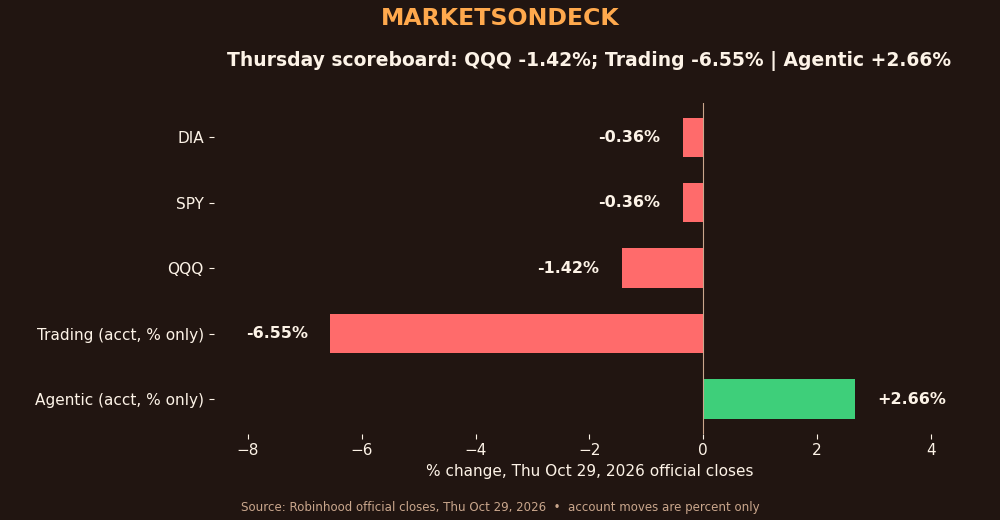
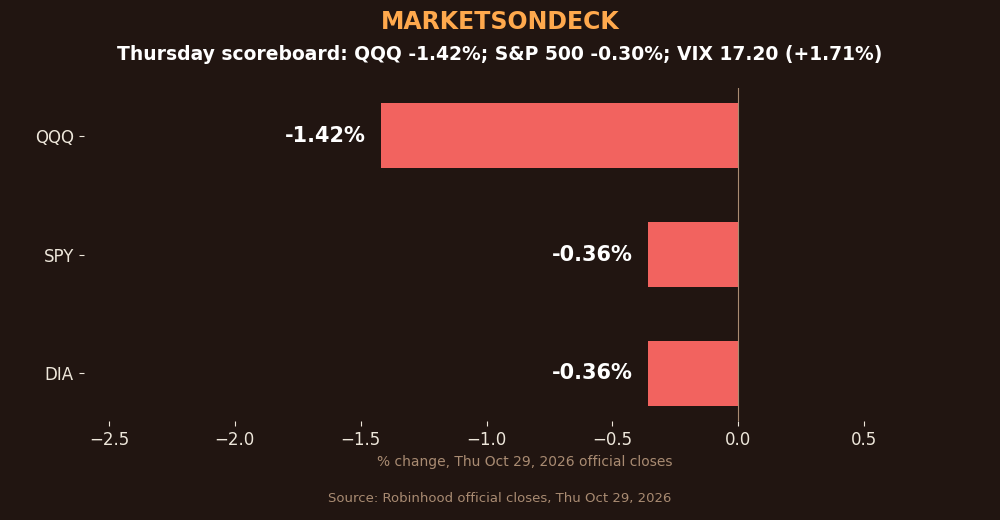
Oct 29 tape audit fixes: market-only hero chart, split recap/Truth paragraphs, dedupe Watch label + Reuters link

diff --git a/site/market-tape/index.html b/site/market-tape/index.html
@@ -128,18 +128,24 @@
 <div class="card daily-entry daily-entry-latest" id="tape-2026-10-29">
 <div class="card-eyebrow" style="display:flex; align-items:center; gap:10px; flex-wrap:wrap; margin-bottom:8px;"><span>October 29, 2026</span><span class="badge badge-accent">After Market Tape</span></div>
 <h3 style="margin-bottom:12px; margin-top:4px;">After Market Tape &mdash; Alphabet Lost 12.66% in a Single Session and ServiceNow Lost 26.96% &mdash; and a 3.4% GDP Beat Kept the December Hike Trade Alive</h3>
-<img class="entry-hero" src="/assets/images/tape-2026-10-29-hero.png" alt="MarketsOnDeck After-Market Tape, October 29, 2026 &mdash; Thursday scoreboard: QQQ -1.42%; Trading -6.55%, Agentic +2.66%" style="width:100%; height:auto; border-radius:8px; margin:12px 0;">
+<img class="entry-hero" src="/assets/images/tape-2026-10-29-hero.png" alt="MarketsOnDeck After-Market Tape, October 29, 2026 &mdash; Thursday scoreboard: QQQ -1.42%; S&P 500 -0.30%; VIX 17.20 (+1.71%)" style="width:100%; height:auto; border-radius:8px; margin:12px 0;">
 <p><strong>Alphabet fell 12.66% on Thursday as Wednesday night's $9.1 billion cash burn became a full-session rout, ServiceNow plunged 26.96% on a softer contract outlook and Caterpillar's 'moderate' guide dragged the Dow &mdash; on a day GDP beat at 3.4%, core PCE ticked up to 3.1% and December hike odds held near 85%.</strong></p>
 <h4 class="section-head" style="margin:20px 0 8px;">Recap</h4>
-<p>Thursday was the earnings bill coming due. At the official closes (Robinhood), <a href="https://finance.yahoo.com/quote/SPY">SPY</a> fell 0.36% to $769.52, <a href="https://finance.yahoo.com/quote/QQQ">QQQ</a> fell 1.42% to $715.28 and <a href="https://finance.yahoo.com/quote/DIA">DIA</a> fell 0.36% to $522.77. The S&amp;P 500 index printed 7,720.39 (-0.30% vs Wednesday's 7,743.98) and the Nasdaq-100 printed 29,402.51 (-1.38% vs 29,813.16), with the VIX up 1.71% at 17.20 (Robinhood index quotes, ~4:32&ndash;4:35 PM ET). Alphabet was the day's anchor: the stock closed at $283.75, down 12.66%, after Wednesday night's report &mdash; a revenue and earnings miss with free cash flow negative for a second straight quarter at -$9.1 billion despite Google Cloud revenue more than doubling (Barron's; Reuters) &mdash; turned an 8.5% after-hours drop into a full-session rout. Microsoft, which jumped after hours on Azure growth of 48%, gave the move back and closed nearly flat at $530.43 (-0.11%). The morning data stack pointed the other way from the stock tape: third-quarter GDP grew at a 3.4% annualized rate, beating consensus (BEA advance estimate via Reuters), while September PCE inflation rose 0.5% on the month to 3.6% year over year and core PCE rose 0.3% on the month to 3.1% year over year (Reuters). Financial markets were pricing a roughly 84.6% chance of a December rate hike (CME FedWatch via Reuters), and the 10-year Treasury yield eased to around 4.95% (Investopedia). After the bell, Amazon missed on the headline lines: GAAP EPS of $1.89 vs the $1.97 estimate in this morning's Robinhood earnings calendar (Seeking Alpha: misses by $0.07), revenue of $201.9 billion (Seeking Alpha: misses by $360 million), while operating income of $28.08 billion beat the $26.06 billion estimate and AWS sales of $45.98 billion grew 39% excluding currency effects (MarketFlux). Amazon's extended-hours mark was $234.39 at ~4:33 PM ET, down 4.03% from Thursday's $244.23 close (Robinhood). Bitcoin's Robinhood evening mark was $79,803.14 (+0.07% vs its open) and Ether's was $2,286.63 (-0.84% vs its open).</p>
+<p>Thursday was the earnings bill coming due.</p>
+<p>At the official closes (Robinhood), <a href="https://finance.yahoo.com/quote/SPY">SPY</a> fell 0.36% to $769.52, <a href="https://finance.yahoo.com/quote/QQQ">QQQ</a> fell 1.42% to $715.28 and <a href="https://finance.yahoo.com/quote/DIA">DIA</a> fell 0.36% to $522.77. The S&amp;P 500 index printed 7,720.39 (-0.30% vs Wednesday's 7,743.98) and the Nasdaq-100 printed 29,402.51 (-1.38% vs 29,813.16), with the VIX up 1.71% at 17.20 (Robinhood index quotes, ~4:32&ndash;4:35 PM ET). Alphabet was the day's anchor: the stock closed at $283.75, down 12.66%, after Wednesday night's report &mdash; a revenue and earnings miss with free cash flow negative for a second straight quarter at -$9.1 billion despite Google Cloud revenue more than doubling (Barron's; Reuters) &mdash; turned an 8.5% after-hours drop into a full-session rout. Microsoft, which jumped after hours on Azure growth of 48%, gave the move back and closed nearly flat at $530.43 (-0.11%).</p>
+<p>The morning data stack pointed the other way from the stock tape: third-quarter GDP grew at a 3.4% annualized rate, beating consensus (BEA advance estimate via Reuters), while September PCE inflation rose 0.5% on the month to 3.6% year over year and core PCE rose 0.3% on the month to 3.1% year over year (Reuters). Financial markets were pricing a roughly 84.6% chance of a December rate hike (CME FedWatch via Reuters), and the 10-year Treasury yield eased to around 4.95% (Investopedia).</p>
+<p>After the bell, Amazon missed on the headline lines: GAAP EPS of $1.89 vs the $1.97 estimate in this morning's Robinhood earnings calendar (Seeking Alpha: misses by $0.07), revenue of $201.9 billion (Seeking Alpha: misses by $360 million), while operating income of $28.08 billion beat the $26.06 billion estimate and AWS sales of $45.98 billion grew 39% excluding currency effects (MarketFlux). Amazon's extended-hours mark was $234.39 at ~4:33 PM ET, down 4.03% from Thursday's $244.23 close (Robinhood). Bitcoin's Robinhood evening mark was $79,803.14 (+0.07% vs its open) and Ether's was $2,286.63 (-0.84% vs its open).</p>
 <h4 class="section-head" style="margin:20px 0 8px;">Truth API recap</h4>
-<p>The day's other story stayed on the tape all session. Reuters reported overnight that Truth Social has signed up Bloomberg, Susquehanna International Group and Jump Trading for paid faster access to President Trump's posts &mdash; a service, called Truth API, with a list price of up to $100,000 a month that Trump Media officials describe as delivering about a 50-millisecond timing advantage (Reuters exclusive, <a href="https://www.reuters.com/business/finance/bloomberg-two-trading-firms-agree-pay-trumps-truth-social-faster-access-2026-10-29/">Reuters exclusive</a>). Susquehanna and Jump are high-frequency trading firms whose software ingests headlines and executes trades in thousandths of a second; Reuters says the service has the potential to give Wall Street traders an edge not available to everyday investors on posts that can move markets, and that the deals likely mark the first time a business tied to a sitting president has sold access to their statements. Trump Media told investors in August that it had signed more than 10 customer agreements at $60,000 to $100,000 a month, a claim Reuters could not confirm. Senators Elizabeth Warren and Adam Schiff asked the SEC in July to investigate whether the service violates securities laws; the SEC declined to comment to Reuters. Intercept Media and the Freedom of the Press Foundation sued in August, seeking to block the White House from posting official government announcements exclusively on Truth Social while the paid feed exists; the suit is ongoing. Trump Media's response, in its own terms: the company calls Truth API an industry-standard API product with significant demand across industries, says the reporting is misleading, and a spokesperson said congressional Democrats mischaracterize the service, citing the distinction between public and nonpublic information. Bloomberg, Susquehanna and Jump declined to comment to Reuters. No new official reaction, statement, lawsuit development or follow-on reporting on the story was verified during Thursday's session &mdash; the day's coverage was follow-on summaries of the Reuters exclusive. The market color: Trump Media (DJT) closed Thursday at $5.78, down 3.18% in its first session after the story broke (Robinhood official close). MarketsOnDeck's full treatment of the story is this morning's <a href="https://marketsondeck.net/brief/#brief-2026-10-29">brief</a> and <a href="https://medium.com/@marketsondeck/s-p-500-0-28-62ca53208139">Medium piece</a>.</p>
+<p>The day's other story stayed on the tape all session. Reuters reported overnight that Truth Social has signed up Bloomberg, Susquehanna International Group and Jump Trading for paid faster access to President Trump's posts &mdash; a service, called Truth API, with a list price of up to $100,000 a month that Trump Media officials describe as delivering about a 50-millisecond timing advantage (<a href="https://www.reuters.com/business/finance/bloomberg-two-trading-firms-agree-pay-trumps-truth-social-faster-access-2026-10-29/">Reuters exclusive</a>). Susquehanna and Jump are high-frequency trading firms whose software ingests headlines and executes trades in thousandths of a second; Reuters says the service has the potential to give Wall Street traders an edge not available to everyday investors on posts that can move markets, and that the deals likely mark the first time a business tied to a sitting president has sold access to their statements. Trump Media told investors in August that it had signed more than 10 customer agreements at $60,000 to $100,000 a month, a claim Reuters could not confirm.</p>
+<p>Senators Elizabeth Warren and Adam Schiff asked the SEC in July to investigate whether the service violates securities laws; the SEC declined to comment to Reuters. Intercept Media and the Freedom of the Press Foundation sued in August, seeking to block the White House from posting official government announcements exclusively on Truth Social while the paid feed exists; the suit is ongoing. Trump Media's response, in its own terms: the company calls Truth API an industry-standard API product with significant demand across industries, says the reporting is misleading, and a spokesperson said congressional Democrats mischaracterize the service, citing the distinction between public and nonpublic information. Bloomberg, Susquehanna and Jump declined to comment to Reuters.</p>
+<p>No new official reaction, statement, lawsuit development or follow-on reporting on the story was verified during Thursday's session &mdash; the day's coverage was follow-on summaries of the Reuters exclusive.</p>
+<p>The market color: Trump Media (DJT) closed Thursday at $5.78, down 3.18% in its first session after the story broke (Robinhood official close). MarketsOnDeck's full treatment of the story is this morning's <a href="https://marketsondeck.net/brief/#brief-2026-10-29">brief</a> and <a href="https://medium.com/@marketsondeck/s-p-500-0-28-62ca53208139">Medium piece</a>.</p>
 <img class="entry-hero" src="/assets/images/tape-2026-10-29-levels.png" alt="Mag 7 on Thursday &mdash; Alphabet -12.66%; Meta and Apple rose" style="width:100%; height:auto; border-radius:8px; margin:12px 0;">
 <p style="font-size:13px; opacity:.72; margin-top:-6px;">Mag 7 on Thursday, split on the earnings bill. Source: Robinhood official closes, October 29, 2026.</p>
 <p>The Mag 7 closed split on Thursday (Robinhood official closes): Meta rose 1.97% to $624.55 and Apple rose 1.49% to $348.94, while Alphabet fell 12.66% to $283.75, Amazon fell 4.07% to $244.23 ahead of its after-close report, Nvidia fell 0.77% to $213.72, Tesla fell 0.23% to $403.29 and Microsoft was nearly flat at $530.43 (-0.11%). Elsewhere, earnings movers ran in both directions: ServiceNow plunged 26.96% to $109.65 after guiding fourth-quarter contracted-revenue (cRPO) growth to 18.5% in constant currency, down from 21% in the third quarter, with adjusted EPS of $1.00 vs $1.02 expected (Investing.com via AIStockWire); Caterpillar fell 9.27% to $647.25 after guiding to only 'moderate' fourth-quarter sales growth despite a $7.20 EPS beat vs roughly $7.05 expected (Tickeron); Eli Lilly jumped 6.57% to $1,373.00 on its morning beat and raised outlook, Merck rose 3.84% to $146.34, KLA rose 5.78% to $167.94, Gilead rose 4.04% to $165.63 and Boeing rose 3.34% to $172.72, while the AI-memory complex gave back Wednesday's gains &mdash; Nebius -5.68%, SanDisk -5.30%, CoreWeave -5.02% and Micron -4.98% (Robinhood closes).</p>
 <img class="entry-hero" src="/assets/images/tape-2026-10-29-movers.png" alt="Thursday's standouts &mdash; ServiceNow -26.96% and Caterpillar -9.27% vs Lilly +6.57%" style="width:100%; height:auto; border-radius:8px; margin:12px 0;">
 <p style="font-size:13px; opacity:.72; margin-top:-6px;">Thursday's standouts: ServiceNow and Caterpillar sank on guidance while Lilly jumped on its beat and raised outlook. Source: Robinhood official closes, October 29, 2026.</p>
-<p style="margin-top:16px;"><strong>Watch tomorrow:</strong> Watch tomorrow: whether Amazon's after-hours drop holds at Friday's open, the after-close reactions from Intel, SanDisk and Coinbase, whether December hike pricing near 85% survives into the weekend, any SEC or court development on the Truth API story, and Friday's earnings slate.</p>
+<p style="margin-top:16px;"><strong>Watch tomorrow:</strong> whether Amazon's after-hours drop holds at Friday's open, the after-close reactions from Intel, SanDisk and Coinbase, whether December hike pricing near 85% survives into the weekend, any SEC or court development on the Truth API story, and Friday's earnings slate.</p>
 <h4 class="section-head" style="margin:20px 0 8px;">The OnDeck Book</h4>
 <p>Trading fell 6.55% on Thursday and Agentic rose 2.66% (percent only) vs SPY -0.36%, QQQ -1.42% and DIA -0.36%. Trading day P&amp;L was -$3,304.00 on a core-equity basis (Robinhood: core equity $47,134.43 vs adjusted previous close $50,438.43) &mdash; $3,126.00 of it was the options book marking down as the underlying names fell, and $178.00 was the equity positions. Positions (Thursday official closes, Robinhood): SPCX 150 shares, avg $132.13, close $143.82 (-0.97% on the day), +8.85% vs avg cost, unrealized +$1,753.47. SOFI 200 shares, avg $17.10, close $17.605 (+2.71%), +2.97% vs avg, unrealized +$101.50. QUBT 700 shares, avg $8.21, close $6.825 (-1.23%), -16.87% vs avg, unrealized -$969.50. Options (adjusted marks at Thursday's close, Robinhood; total market value $6,895, down from $10,021 at Wednesday's close): SPCX $148 calls expiring Wed Nov 4, 7 long, clearing cost $2,698 total, mark $1.98, market value $1,386 &mdash; expiring within 7 days; NVDA $215 calls expiring Wed Nov 4, 2 long, clearing cost $880 total, mark $2.90, market value $580 &mdash; expiring within 7 days; NVDA $217.50 calls expiring Wed Nov 4, 4 long, clearing cost $1,814 total, mark $1.89, market value $756 &mdash; expiring within 7 days; SPCX $148 calls expiring Fri Nov 6, 11 long, clearing cost $4,903 total, mark $2.66, market value $2,926; SPCX $152.50 calls expiring Fri Nov 6, 7 long, clearing cost $1,940 total, mark $1.45, market value $1,015; NVDA $222.50 calls expiring Fri Nov 6, 2 long, clearing cost $720 total, mark $1.16, market value $232. No orders today &mdash; no equity, option or crypto orders in Trading or Agentic on Thursday (Robinhood order history). Futures: none &mdash; the position was fully closed on Oct 22 and nothing is held this evening. Crypto: ETH 3.6 coins, clearing cost basis $8,608.00, mark $2,286.63 (Robinhood crypto quote, ~4:35 PM ET), indicative value $8,231.88; BTC mark $79,803.14 (quote only; no BTC position); USDG 102.88 units including Crypto Earn (last checked October 15); dust: CC 1.0, DOGE 1.0, USDC 0.00993.</p>
 <p style="margin-top:16px;">Sources: Robinhood (official closes, broker records, index and crypto quotes, portfolio pull), Reuters (Truth API exclusive, GDP and PCE), BEA (GDP advance estimate), Barron's (Alphabet), CME FedWatch via Reuters (December hike pricing), Investopedia (10-year Treasury), Seeking Alpha and MarketFlux (Amazon after-close), Investing.com via AIStockWire (ServiceNow), Tickeron (Caterpillar). No buy or sell advice.</p>

diff --git a/site/market-tape/2026-10-29/index.html b/site/market-tape/2026-10-29/index.html
@@ -81,18 +81,24 @@
 <div class="card daily-entry" id="tape-2026-10-29">
 <div class="card-eyebrow" style="display:flex; align-items:center; gap:10px; flex-wrap:wrap; margin-bottom:8px;"><span>October 29, 2026</span><span class="badge badge-accent">After Market Tape</span></div>
 
-<img class="entry-hero" src="/assets/images/tape-2026-10-29-hero.png" alt="MarketsOnDeck After-Market Tape, October 29, 2026 &mdash; Thursday scoreboard: QQQ -1.42%; Trading -6.55%, Agentic +2.66%" style="width:100%; height:auto; border-radius:8px; margin:12px 0;">
+<img class="entry-hero" src="/assets/images/tape-2026-10-29-hero.png" alt="MarketsOnDeck After-Market Tape, October 29, 2026 &mdash; Thursday scoreboard: QQQ -1.42%; S&P 500 -0.30%; VIX 17.20 (+1.71%)" style="width:100%; height:auto; border-radius:8px; margin:12px 0;">
 <p><strong>Alphabet fell 12.66% on Thursday as Wednesday night's $9.1 billion cash burn became a full-session rout, ServiceNow plunged 26.96% on a softer contract outlook and Caterpillar's 'moderate' guide dragged the Dow &mdash; on a day GDP beat at 3.4%, core PCE ticked up to 3.1% and December hike odds held near 85%.</strong></p>
 <h4 class="section-head" style="margin:20px 0 8px;">Recap</h4>
-<p>Thursday was the earnings bill coming due. At the official closes (Robinhood), <a href="https://finance.yahoo.com/quote/SPY">SPY</a> fell 0.36% to $769.52, <a href="https://finance.yahoo.com/quote/QQQ">QQQ</a> fell 1.42% to $715.28 and <a href="https://finance.yahoo.com/quote/DIA">DIA</a> fell 0.36% to $522.77. The S&amp;P 500 index printed 7,720.39 (-0.30% vs Wednesday's 7,743.98) and the Nasdaq-100 printed 29,402.51 (-1.38% vs 29,813.16), with the VIX up 1.71% at 17.20 (Robinhood index quotes, ~4:32&ndash;4:35 PM ET). Alphabet was the day's anchor: the stock closed at $283.75, down 12.66%, after Wednesday night's report &mdash; a revenue and earnings miss with free cash flow negative for a second straight quarter at -$9.1 billion despite Google Cloud revenue more than doubling (Barron's; Reuters) &mdash; turned an 8.5% after-hours drop into a full-session rout. Microsoft, which jumped after hours on Azure growth of 48%, gave the move back and closed nearly flat at $530.43 (-0.11%). The morning data stack pointed the other way from the stock tape: third-quarter GDP grew at a 3.4% annualized rate, beating consensus (BEA advance estimate via Reuters), while September PCE inflation rose 0.5% on the month to 3.6% year over year and core PCE rose 0.3% on the month to 3.1% year over year (Reuters). Financial markets were pricing a roughly 84.6% chance of a December rate hike (CME FedWatch via Reuters), and the 10-year Treasury yield eased to around 4.95% (Investopedia). After the bell, Amazon missed on the headline lines: GAAP EPS of $1.89 vs the $1.97 estimate in this morning's Robinhood earnings calendar (Seeking Alpha: misses by $0.07), revenue of $201.9 billion (Seeking Alpha: misses by $360 million), while operating income of $28.08 billion beat the $26.06 billion estimate and AWS sales of $45.98 billion grew 39% excluding currency effects (MarketFlux). Amazon's extended-hours mark was $234.39 at ~4:33 PM ET, down 4.03% from Thursday's $244.23 close (Robinhood). Bitcoin's Robinhood evening mark was $79,803.14 (+0.07% vs its open) and Ether's was $2,286.63 (-0.84% vs its open).</p>
+<p>Thursday was the earnings bill coming due.</p>
+<p>At the official closes (Robinhood), <a href="https://finance.yahoo.com/quote/SPY">SPY</a> fell 0.36% to $769.52, <a href="https://finance.yahoo.com/quote/QQQ">QQQ</a> fell 1.42% to $715.28 and <a href="https://finance.yahoo.com/quote/DIA">DIA</a> fell 0.36% to $522.77. The S&amp;P 500 index printed 7,720.39 (-0.30% vs Wednesday's 7,743.98) and the Nasdaq-100 printed 29,402.51 (-1.38% vs 29,813.16), with the VIX up 1.71% at 17.20 (Robinhood index quotes, ~4:32&ndash;4:35 PM ET). Alphabet was the day's anchor: the stock closed at $283.75, down 12.66%, after Wednesday night's report &mdash; a revenue and earnings miss with free cash flow negative for a second straight quarter at -$9.1 billion despite Google Cloud revenue more than doubling (Barron's; Reuters) &mdash; turned an 8.5% after-hours drop into a full-session rout. Microsoft, which jumped after hours on Azure growth of 48%, gave the move back and closed nearly flat at $530.43 (-0.11%).</p>
+<p>The morning data stack pointed the other way from the stock tape: third-quarter GDP grew at a 3.4% annualized rate, beating consensus (BEA advance estimate via Reuters), while September PCE inflation rose 0.5% on the month to 3.6% year over year and core PCE rose 0.3% on the month to 3.1% year over year (Reuters). Financial markets were pricing a roughly 84.6% chance of a December rate hike (CME FedWatch via Reuters), and the 10-year Treasury yield eased to around 4.95% (Investopedia).</p>
+<p>After the bell, Amazon missed on the headline lines: GAAP EPS of $1.89 vs the $1.97 estimate in this morning's Robinhood earnings calendar (Seeking Alpha: misses by $0.07), revenue of $201.9 billion (Seeking Alpha: misses by $360 million), while operating income of $28.08 billion beat the $26.06 billion estimate and AWS sales of $45.98 billion grew 39% excluding currency effects (MarketFlux). Amazon's extended-hours mark was $234.39 at ~4:33 PM ET, down 4.03% from Thursday's $244.23 close (Robinhood). Bitcoin's Robinhood evening mark was $79,803.14 (+0.07% vs its open) and Ether's was $2,286.63 (-0.84% vs its open).</p>
 <h4 class="section-head" style="margin:20px 0 8px;">Truth API recap</h4>
-<p>The day's other story stayed on the tape all session. Reuters reported overnight that Truth Social has signed up Bloomberg, Susquehanna International Group and Jump Trading for paid faster access to President Trump's posts &mdash; a service, called Truth API, with a list price of up to $100,000 a month that Trump Media officials describe as delivering about a 50-millisecond timing advantage (Reuters exclusive, <a href="https://www.reuters.com/business/finance/bloomberg-two-trading-firms-agree-pay-trumps-truth-social-faster-access-2026-10-29/">Reuters exclusive</a>). Susquehanna and Jump are high-frequency trading firms whose software ingests headlines and executes trades in thousandths of a second; Reuters says the service has the potential to give Wall Street traders an edge not available to everyday investors on posts that can move markets, and that the deals likely mark the first time a business tied to a sitting president has sold access to their statements. Trump Media told investors in August that it had signed more than 10 customer agreements at $60,000 to $100,000 a month, a claim Reuters could not confirm. Senators Elizabeth Warren and Adam Schiff asked the SEC in July to investigate whether the service violates securities laws; the SEC declined to comment to Reuters. Intercept Media and the Freedom of the Press Foundation sued in August, seeking to block the White House from posting official government announcements exclusively on Truth Social while the paid feed exists; the suit is ongoing. Trump Media's response, in its own terms: the company calls Truth API an industry-standard API product with significant demand across industries, says the reporting is misleading, and a spokesperson said congressional Democrats mischaracterize the service, citing the distinction between public and nonpublic information. Bloomberg, Susquehanna and Jump declined to comment to Reuters. No new official reaction, statement, lawsuit development or follow-on reporting on the story was verified during Thursday's session &mdash; the day's coverage was follow-on summaries of the Reuters exclusive. The market color: Trump Media (DJT) closed Thursday at $5.78, down 3.18% in its first session after the story broke (Robinhood official close). MarketsOnDeck's full treatment of the story is this morning's <a href="https://marketsondeck.net/brief/#brief-2026-10-29">brief</a> and <a href="https://medium.com/@marketsondeck/s-p-500-0-28-62ca53208139">Medium piece</a>.</p>
+<p>The day's other story stayed on the tape all session. Reuters reported overnight that Truth Social has signed up Bloomberg, Susquehanna International Group and Jump Trading for paid faster access to President Trump's posts &mdash; a service, called Truth API, with a list price of up to $100,000 a month that Trump Media officials describe as delivering about a 50-millisecond timing advantage (<a href="https://www.reuters.com/business/finance/bloomberg-two-trading-firms-agree-pay-trumps-truth-social-faster-access-2026-10-29/">Reuters exclusive</a>). Susquehanna and Jump are high-frequency trading firms whose software ingests headlines and executes trades in thousandths of a second; Reuters says the service has the potential to give Wall Street traders an edge not available to everyday investors on posts that can move markets, and that the deals likely mark the first time a business tied to a sitting president has sold access to their statements. Trump Media told investors in August that it had signed more than 10 customer agreements at $60,000 to $100,000 a month, a claim Reuters could not confirm.</p>
+<p>Senators Elizabeth Warren and Adam Schiff asked the SEC in July to investigate whether the service violates securities laws; the SEC declined to comment to Reuters. Intercept Media and the Freedom of the Press Foundation sued in August, seeking to block the White House from posting official government announcements exclusively on Truth Social while the paid feed exists; the suit is ongoing. Trump Media's response, in its own terms: the company calls Truth API an industry-standard API product with significant demand across industries, says the reporting is misleading, and a spokesperson said congressional Democrats mischaracterize the service, citing the distinction between public and nonpublic information. Bloomberg, Susquehanna and Jump declined to comment to Reuters.</p>
+<p>No new official reaction, statement, lawsuit development or follow-on reporting on the story was verified during Thursday's session &mdash; the day's coverage was follow-on summaries of the Reuters exclusive.</p>
+<p>The market color: Trump Media (DJT) closed Thursday at $5.78, down 3.18% in its first session after the story broke (Robinhood official close). MarketsOnDeck's full treatment of the story is this morning's <a href="https://marketsondeck.net/brief/#brief-2026-10-29">brief</a> and <a href="https://medium.com/@marketsondeck/s-p-500-0-28-62ca53208139">Medium piece</a>.</p>
 <img class="entry-hero" src="/assets/images/tape-2026-10-29-levels.png" alt="Mag 7 on Thursday &mdash; Alphabet -12.66%; Meta and Apple rose" style="width:100%; height:auto; border-radius:8px; margin:12px 0;">
 <p style="font-size:13px; opacity:.72; margin-top:-6px;">Mag 7 on Thursday, split on the earnings bill. Source: Robinhood official closes, October 29, 2026.</p>
 <p>The Mag 7 closed split on Thursday (Robinhood official closes): Meta rose 1.97% to $624.55 and Apple rose 1.49% to $348.94, while Alphabet fell 12.66% to $283.75, Amazon fell 4.07% to $244.23 ahead of its after-close report, Nvidia fell 0.77% to $213.72, Tesla fell 0.23% to $403.29 and Microsoft was nearly flat at $530.43 (-0.11%). Elsewhere, earnings movers ran in both directions: ServiceNow plunged 26.96% to $109.65 after guiding fourth-quarter contracted-revenue (cRPO) growth to 18.5% in constant currency, down from 21% in the third quarter, with adjusted EPS of $1.00 vs $1.02 expected (Investing.com via AIStockWire); Caterpillar fell 9.27% to $647.25 after guiding to only 'moderate' fourth-quarter sales growth despite a $7.20 EPS beat vs roughly $7.05 expected (Tickeron); Eli Lilly jumped 6.57% to $1,373.00 on its morning beat and raised outlook, Merck rose 3.84% to $146.34, KLA rose 5.78% to $167.94, Gilead rose 4.04% to $165.63 and Boeing rose 3.34% to $172.72, while the AI-memory complex gave back Wednesday's gains &mdash; Nebius -5.68%, SanDisk -5.30%, CoreWeave -5.02% and Micron -4.98% (Robinhood closes).</p>
 <img class="entry-hero" src="/assets/images/tape-2026-10-29-movers.png" alt="Thursday's standouts &mdash; ServiceNow -26.96% and Caterpillar -9.27% vs Lilly +6.57%" style="width:100%; height:auto; border-radius:8px; margin:12px 0;">
 <p style="font-size:13px; opacity:.72; margin-top:-6px;">Thursday's standouts: ServiceNow and Caterpillar sank on guidance while Lilly jumped on its beat and raised outlook. Source: Robinhood official closes, October 29, 2026.</p>
-<p style="margin-top:16px;"><strong>Watch tomorrow:</strong> Watch tomorrow: whether Amazon's after-hours drop holds at Friday's open, the after-close reactions from Intel, SanDisk and Coinbase, whether December hike pricing near 85% survives into the weekend, any SEC or court development on the Truth API story, and Friday's earnings slate.</p>
+<p style="margin-top:16px;"><strong>Watch tomorrow:</strong> whether Amazon's after-hours drop holds at Friday's open, the after-close reactions from Intel, SanDisk and Coinbase, whether December hike pricing near 85% survives into the weekend, any SEC or court development on the Truth API story, and Friday's earnings slate.</p>
 <h4 class="section-head" style="margin:20px 0 8px;">The OnDeck Book</h4>
 <p>Trading fell 6.55% on Thursday and Agentic rose 2.66% (percent only) vs SPY -0.36%, QQQ -1.42% and DIA -0.36%. Trading day P&amp;L was -$3,304.00 on a core-equity basis (Robinhood: core equity $47,134.43 vs adjusted previous close $50,438.43) &mdash; $3,126.00 of it was the options book marking down as the underlying names fell, and $178.00 was the equity positions. Positions (Thursday official closes, Robinhood): SPCX 150 shares, avg $132.13, close $143.82 (-0.97% on the day), +8.85% vs avg cost, unrealized +$1,753.47. SOFI 200 shares, avg $17.10, close $17.605 (+2.71%), +2.97% vs avg, unrealized +$101.50. QUBT 700 shares, avg $8.21, close $6.825 (-1.23%), -16.87% vs avg, unrealized -$969.50. Options (adjusted marks at Thursday's close, Robinhood; total market value $6,895, down from $10,021 at Wednesday's close): SPCX $148 calls expiring Wed Nov 4, 7 long, clearing cost $2,698 total, mark $1.98, market value $1,386 &mdash; expiring within 7 days; NVDA $215 calls expiring Wed Nov 4, 2 long, clearing cost $880 total, mark $2.90, market value $580 &mdash; expiring within 7 days; NVDA $217.50 calls expiring Wed Nov 4, 4 long, clearing cost $1,814 total, mark $1.89, market value $756 &mdash; expiring within 7 days; SPCX $148 calls expiring Fri Nov 6, 11 long, clearing cost $4,903 total, mark $2.66, market value $2,926; SPCX $152.50 calls expiring Fri Nov 6, 7 long, clearing cost $1,940 total, mark $1.45, market value $1,015; NVDA $222.50 calls expiring Fri Nov 6, 2 long, clearing cost $720 total, mark $1.16, market value $232. No orders today &mdash; no equity, option or crypto orders in Trading or Agentic on Thursday (Robinhood order history). Futures: none &mdash; the position was fully closed on Oct 22 and nothing is held this evening. Crypto: ETH 3.6 coins, clearing cost basis $8,608.00, mark $2,286.63 (Robinhood crypto quote, ~4:35 PM ET), indicative value $8,231.88; BTC mark $79,803.14 (quote only; no BTC position); USDG 102.88 units including Crypto Earn (last checked October 15); dust: CC 1.0, DOGE 1.0, USDC 0.00993.</p>
 <p style="margin-top:16px;">Sources: Robinhood (official closes, broker records, index and crypto quotes, portfolio pull), Reuters (Truth API exclusive, GDP and PCE), BEA (GDP advance estimate), Barron's (Alphabet), CME FedWatch via Reuters (December hike pricing), Investopedia (10-year Treasury), Seeking Alpha and MarketFlux (Amazon after-close), Investing.com via AIStockWire (ServiceNow), Tickeron (Caterpillar). No buy or sell advice.</p>
